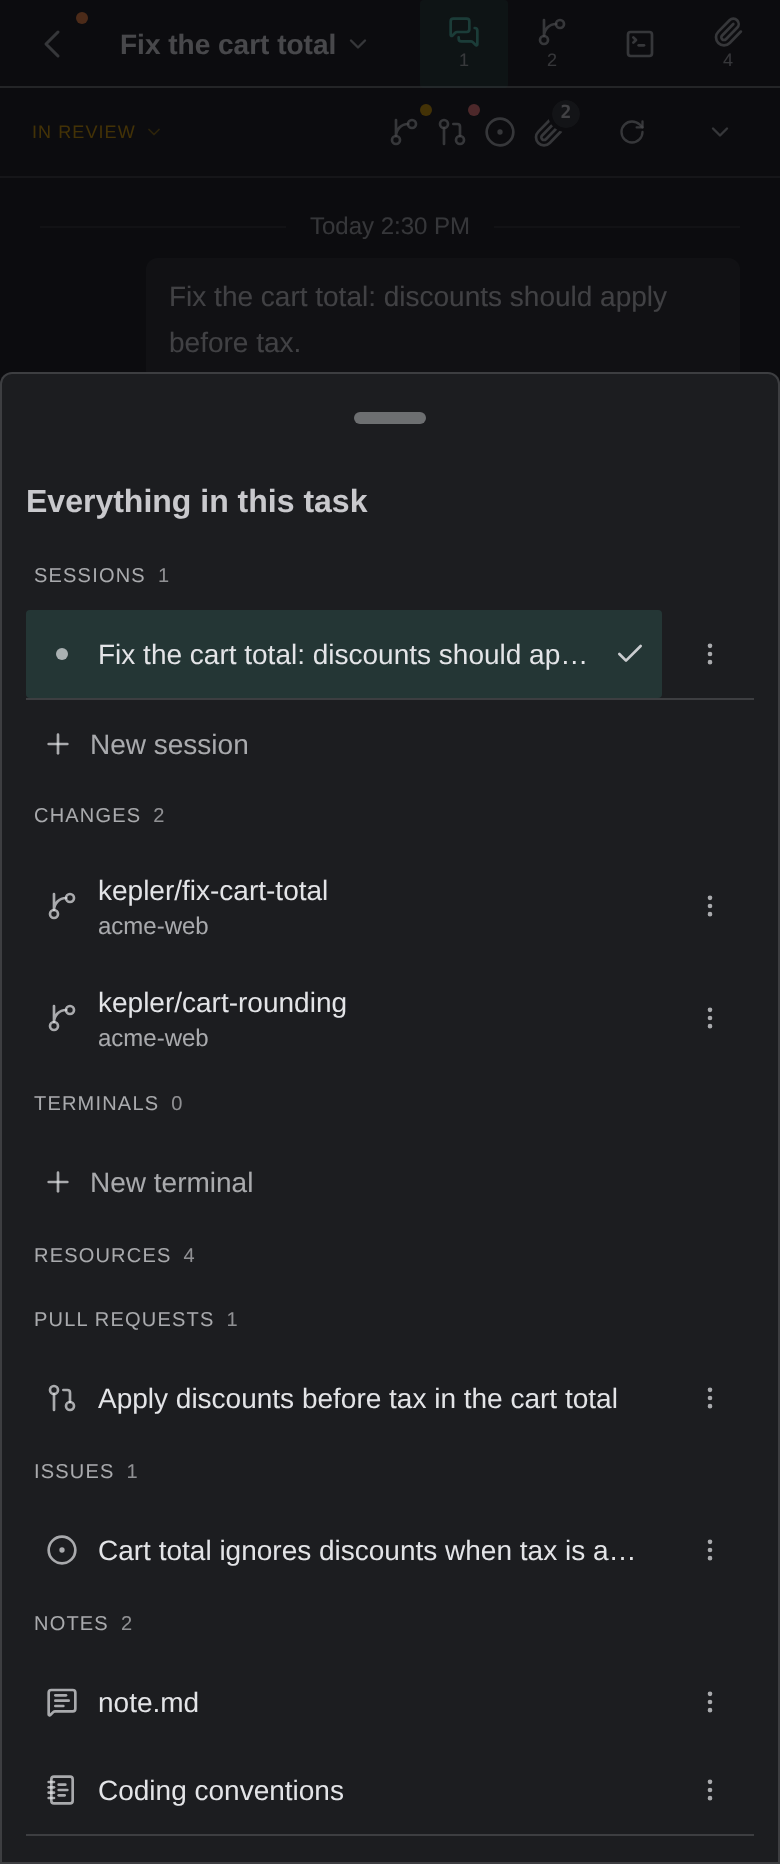
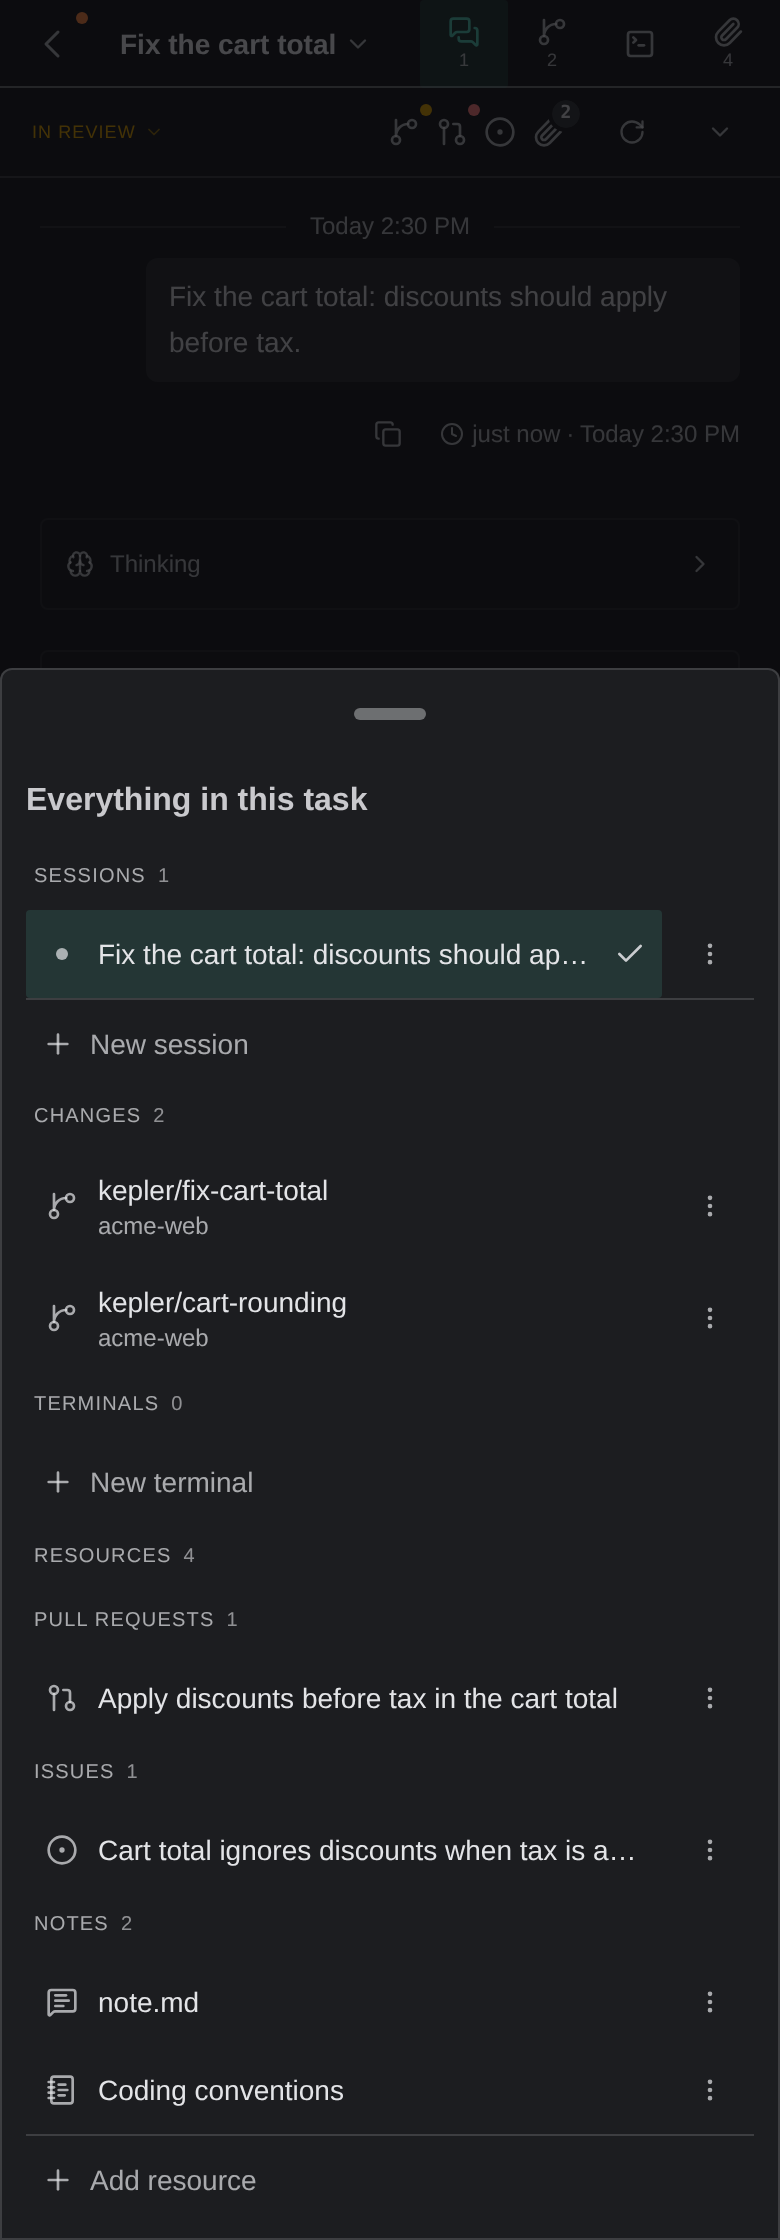
Recapture the phone Everything in this task sheet so it ends with Add resource

diff --git a/kepler/task-view.md b/kepler/task-view.md
@@ -106,7 +106,7 @@ Pull down on the bar, or long-press a segment, to open **Everything in this task
 
 <figure style="text-align:center">
   <a href="/wp-content/uploads/phone-context-sheet-oct-2026-v3@2x.png" target="_blank" rel="noopener noreferrer">
-    <img src="/wp-content/uploads/phone-context-sheet-oct-2026-v3@2x.png" class="help-center-img img-bordered" alt="The Everything in this task sheet pulled up over the task page in a phone-width browser. Sessions (1) lists the agent's session, ticked as the one on screen, then New session; Changes (2) lists kepler/fix-cart-total and kepler/cart-rounding in acme-web; Terminals (0) offers New terminal; Resources (4) heads each kind with its count: Pull requests (1) with Apply discounts before tax in the cart total, Issues (1) with Cart total ignores discounts when tax is a…, and Notes (2) with note.md and Coding conventions. Each row has an actions menu.">
+    <img src="/wp-content/uploads/phone-context-sheet-oct-2026-v3@2x.png" class="help-center-img img-bordered" alt="The Everything in this task sheet pulled up over the task page in a phone-width browser. Sessions (1) lists the agent's session, ticked as the one on screen, then New session; Changes (2) lists kepler/fix-cart-total and kepler/cart-rounding in acme-web; Terminals (0) offers New terminal; Resources (4) heads each kind with its count: Pull requests (1) with Apply discounts before tax in the cart total, Issues (1) with Cart total ignores discounts when tax is a…, and Notes (2) with note.md and Coding conventions. Each row has an actions menu, and the sheet ends with Add resource.">
   </a>
   <figcaption style="text-align:center; color:#888">Everything in this task, which takes the place of the context panel on a phone.</figcaption>
 </figure>
